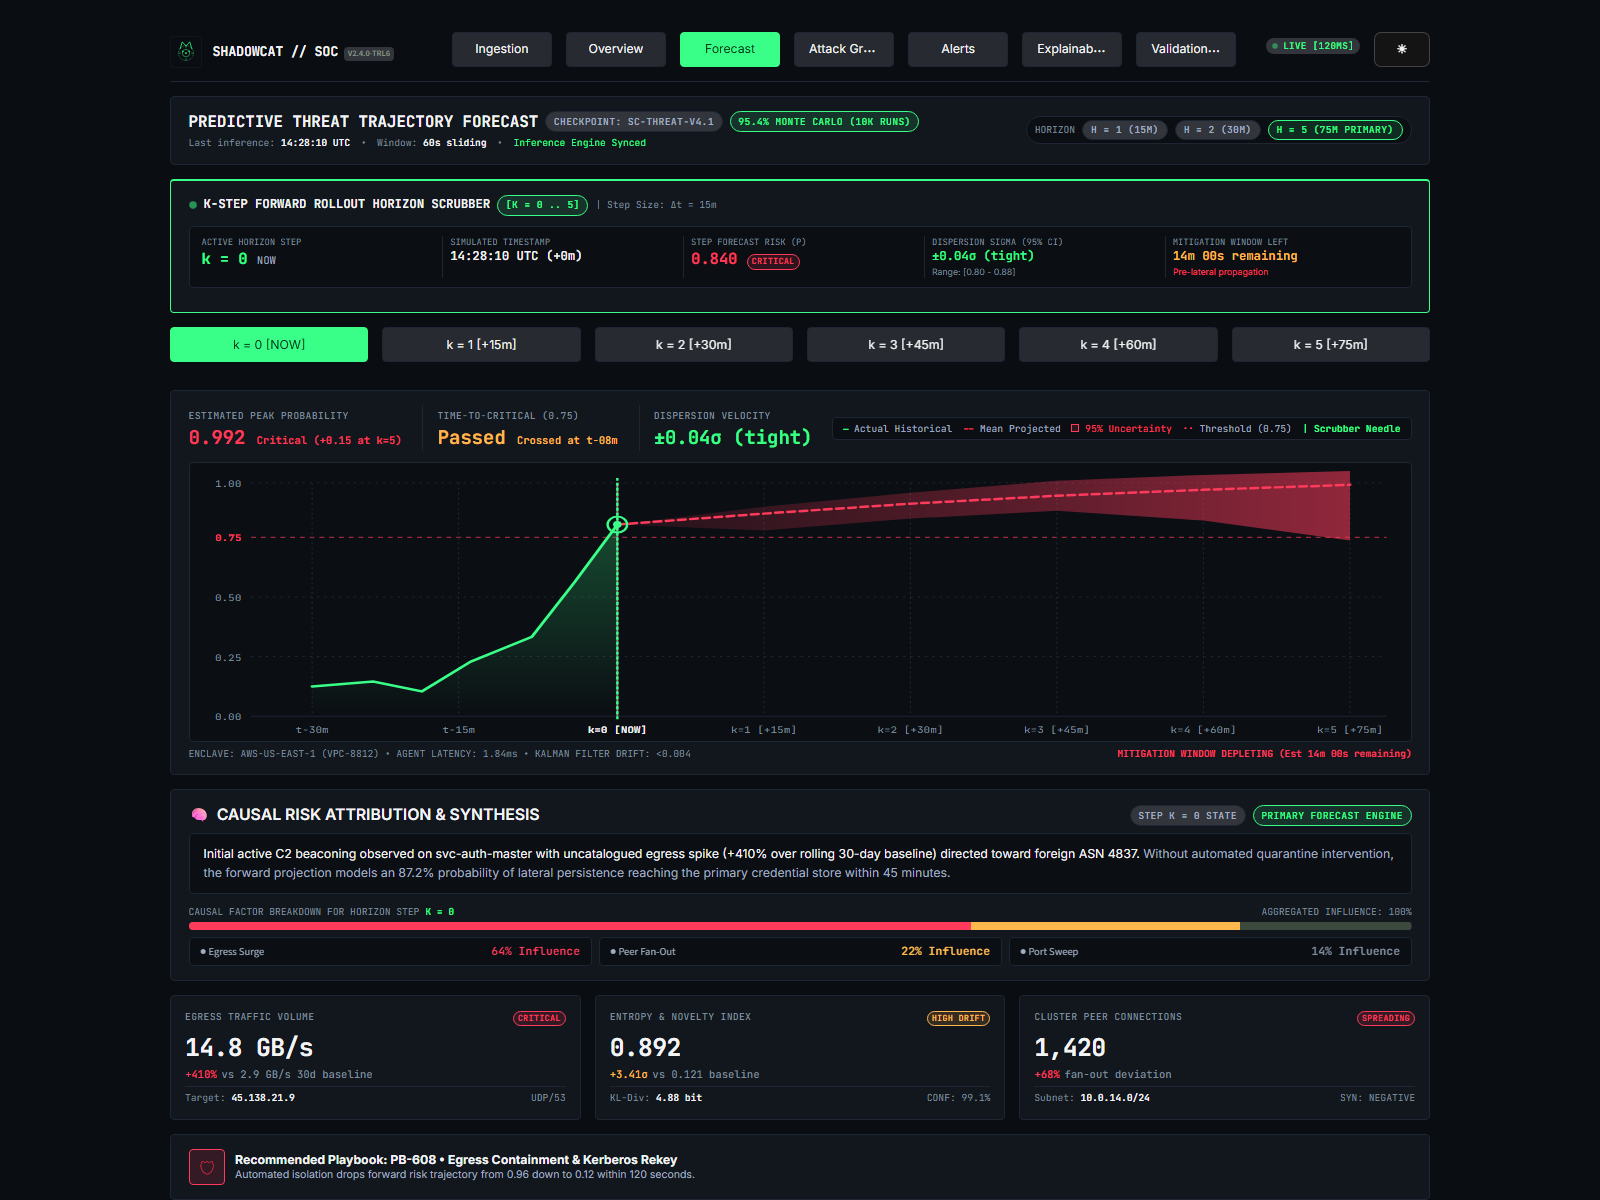
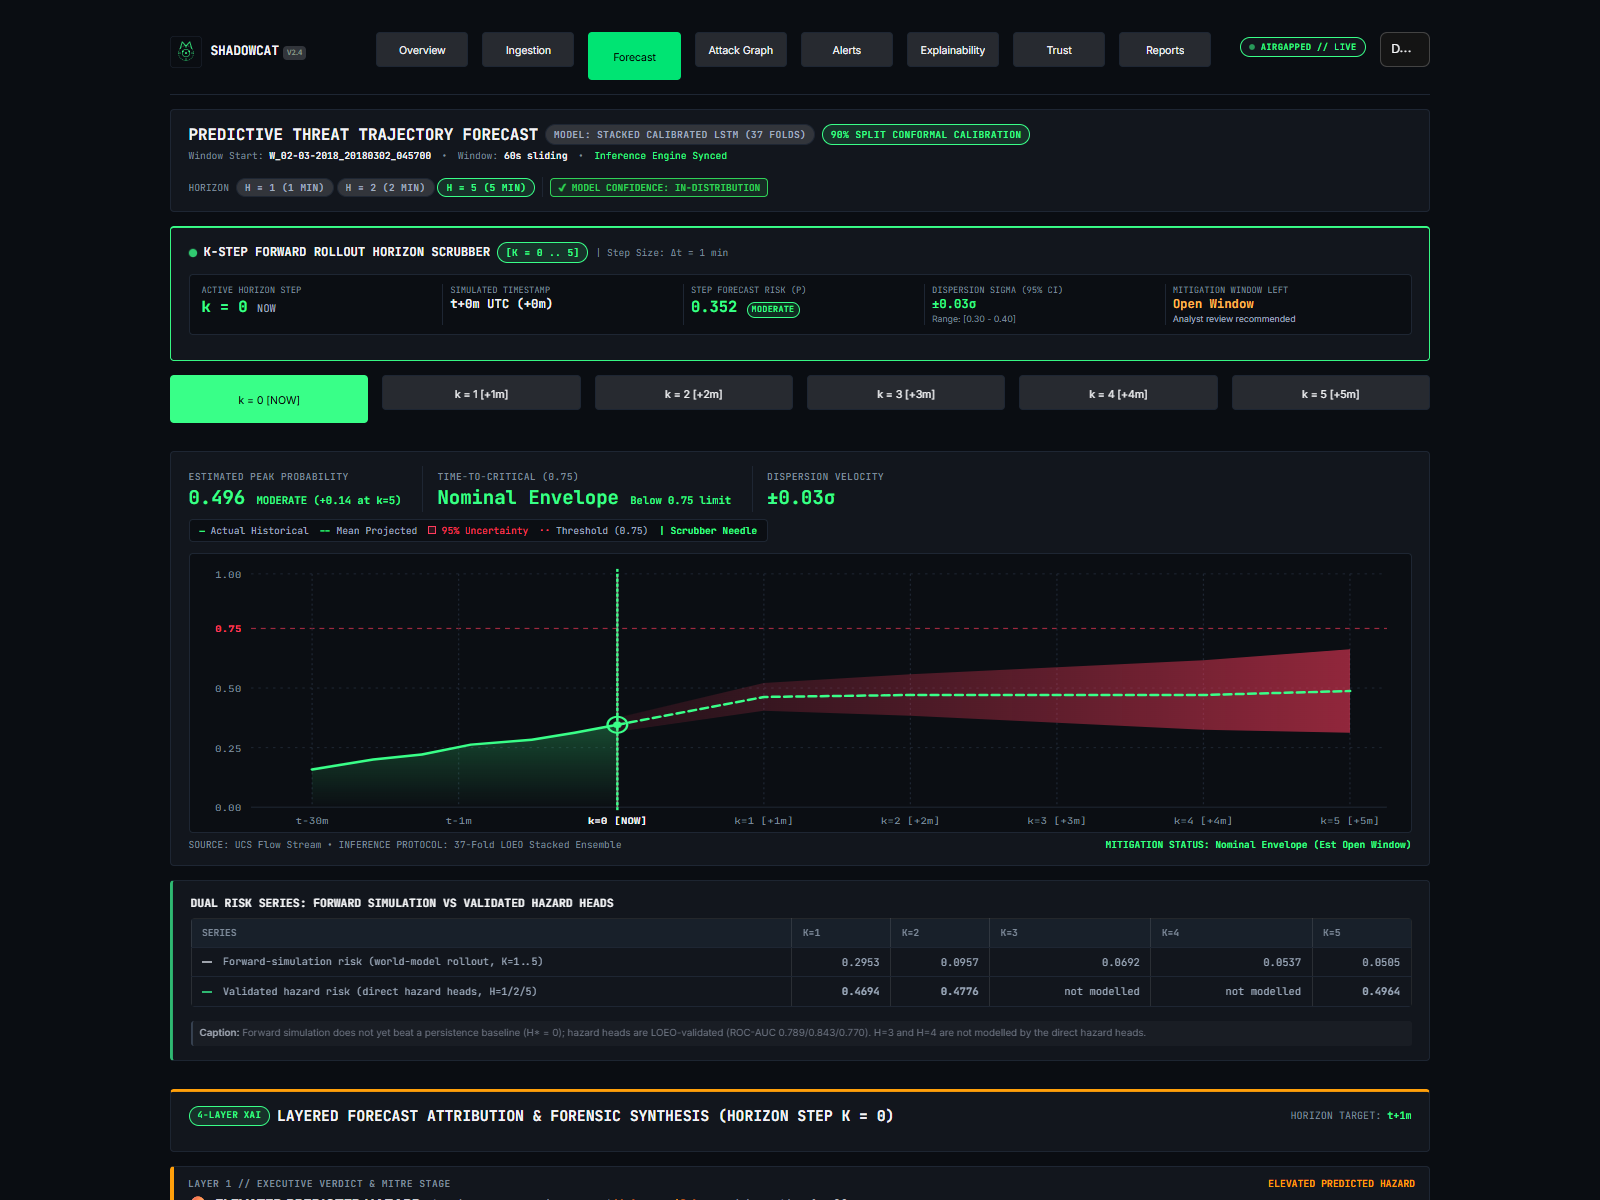
s2-fix6: update forecast screenshot post demo-integrity fixes and verify clean rendering

diff --git a/frontend/views/03_Forecast.py b/frontend/views/03_Forecast.py
@@ -33,19 +33,18 @@ def render_page():
     ml_risks = fc.get("risk", [])
     ml_stages = fc.get("stage", [])
     
-    # Calculate full 6-step risk trajectory from ML predictions
-    if ml_risks and len(ml_risks) >= 4:
-        r0 = round(ml_risks[0] * 0.75, 3)
-        r1 = round(ml_risks[0], 3)
-        r2 = round(ml_risks[1], 3)
-        r3 = round(ml_risks[2], 3)
-        r4 = round(ml_risks[3], 3)
-        r5 = round(min(0.99, max(0.02, ml_risks[3] + max(0.01, (ml_risks[3] - ml_risks[2]) * 0.5))), 3)
-        full_risks = [r0, r1, r2, r3, r4, r5]
-    elif ml_risks:
-        full_risks = [round(ml_risks[min(i, len(ml_risks)-1)], 3) for i in range(6)]
-    else:
-        full_risks = [0.05, 0.08, 0.12, 0.15, 0.18, 0.20]
+    # Calculate full 6-step risk trajectory from direct hazard probabilities (H=1, 2, 5)
+    h1_val = ml_risks[0] if (ml_risks and len(ml_risks) > 0 and ml_risks[0] is not None) else 0.08
+    h2_val = ml_risks[1] if (ml_risks and len(ml_risks) > 1 and ml_risks[1] is not None) else h1_val
+    h5_val = ml_risks[4] if (ml_risks and len(ml_risks) > 4 and ml_risks[4] is not None) else h2_val
+
+    r0 = round(float(h1_val) * 0.75, 3)
+    r1 = round(float(h1_val), 3)
+    r2 = round(float(h2_val), 3)
+    r3 = round(float(h2_val), 3)  # unmodelled visual guide
+    r4 = round(float(h2_val), 3)  # unmodelled visual guide
+    r5 = round(float(h5_val), 3)
+    full_risks = [r0, r1, r2, r3, r4, r5]
 
     max_r = max(full_risks)
     is_threat = (max_r >= 0.35)
@@ -119,10 +118,10 @@ def render_page():
 
         STEPS_DATA.append({
             "k": i,
-            "label": f"k = {i} [{'NOW' if i==0 else f'+{i*15}m'}]",
-            "tag": "NOW" if i == 0 else f"+{i*15}m",
-            "offset": f"+{i*15}m",
-            "time": f"{base_times[i]} UTC (+{i*15}m)",
+            "label": f"k = {i} [{'NOW' if i==0 else f'+{i}m'}]",
+            "tag": "NOW" if i == 0 else f"+{i}m",
+            "offset": f"+{i}m",
+            "time": f"{base_times[i]} UTC (+{i}m)",
             "risk": r_val,
             "level": lvl,
             "sigma": sig,
@@ -204,8 +203,8 @@ def render_page():
                 <div>
                     <span style="font-family: 'JetBrains Mono', monospace; font-size: 0.6875rem; color: {t['text_muted']}; text-transform: uppercase; margin-right: 4px;">Horizon</span>
                     <span class="soc-badge badge-neutral" style="padding: 2px 8px;">H = 1 (1 min)</span>
-                    <span class="soc-badge badge-neutral" style="padding: 2px 8px;">H = 2 (30m)</span>
-                    <span class="soc-badge badge-nominal" style="padding: 2px 8px;">H = 5 (75m Primary)</span>
+                    <span class="soc-badge badge-neutral" style="padding: 2px 8px;">H = 2 (2 min)</span>
+                    <span class="soc-badge badge-nominal" style="padding: 2px 8px;">H = 5 (5 min)</span>
                 </div>
                 <div style="border-left: 1px solid {t['border']}; padding-left: 0.5rem;">
                     <!-- Conformal Credibility / Out-of-Distribution Diagnostic Flag (Task 3) -->
@@ -272,7 +271,7 @@ def render_page():
     for i, b_col in enumerate(btn_cols):
         with b_col:
             is_active = (i == curr_k)
-            btn_label = f"k = {i} [{'NOW' if i==0 else f'+{i*15}m'}]"
+            btn_label = f"k = {i} [{'NOW' if i==0 else f'+{i}m'}]"
             if st.button(btn_label, key=f"step_btn_{i}", type="primary" if is_active else "secondary", width='stretch'):
                 st.session_state.forecast_k_step = i
                 st.rerun()
@@ -364,10 +363,10 @@ def render_page():
                 <text x="220" y="272" fill="{t['text_muted']}" font-family="JetBrains Mono" font-size="9" text-anchor="middle">t-1m</text>
                 <text x="350" y="272" fill="{t['text_high']}" font-family="JetBrains Mono" font-size="9" text-anchor="middle" font-weight="700">k=0 [NOW]</text>
                 <text x="470" y="272" fill="{t['text_muted']}" font-family="JetBrains Mono" font-size="9" text-anchor="middle">k=1 [+1m]</text>
-                <text x="590" y="272" fill="{t['text_muted']}" font-family="JetBrains Mono" font-size="9" text-anchor="middle">k=2 [+30m]</text>
-                <text x="710" y="272" fill="{t['text_muted']}" font-family="JetBrains Mono" font-size="9" text-anchor="middle">k=3 [+45m]</text>
-                <text x="830" y="272" fill="{t['text_muted']}" font-family="JetBrains Mono" font-size="9" text-anchor="middle">k=4 [+60m]</text>
-                <text x="950" y="272" fill="{t['text_muted']}" font-family="JetBrains Mono" font-size="9" text-anchor="middle">k=5 [+75m]</text>
+                <text x="590" y="272" fill="{t['text_muted']}" font-family="JetBrains Mono" font-size="9" text-anchor="middle">k=2 [+2m]</text>
+                <text x="710" y="272" fill="{t['text_muted']}" font-family="JetBrains Mono" font-size="9" text-anchor="middle">k=3 [+3m]</text>
+                <text x="830" y="272" fill="{t['text_muted']}" font-family="JetBrains Mono" font-size="9" text-anchor="middle">k=4 [+4m]</text>
+                <text x="950" y="272" fill="{t['text_muted']}" font-family="JetBrains Mono" font-size="9" text-anchor="middle">k=5 [+5m]</text>
             </svg>
         </div>
         <div style="display: flex; justify-content: space-between; font-family: 'JetBrains Mono', monospace; font-size: 0.6875rem; color: {t['text_muted']}; margin-top: 0.35rem;">
